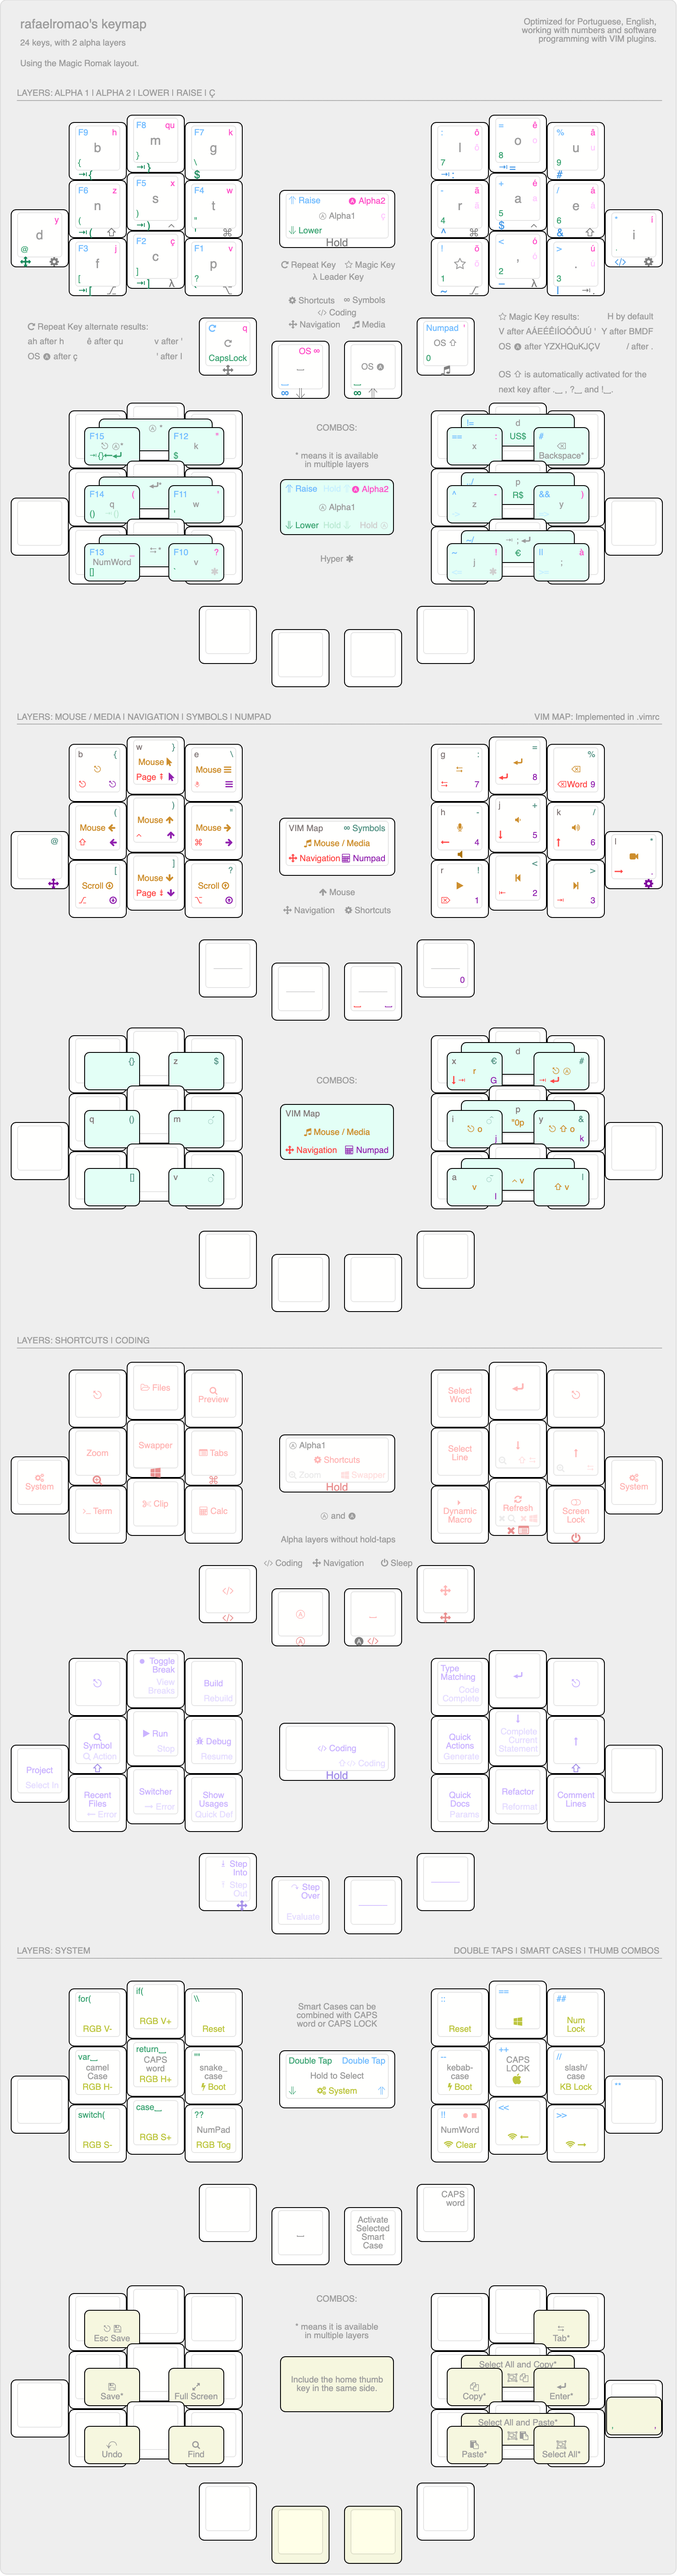
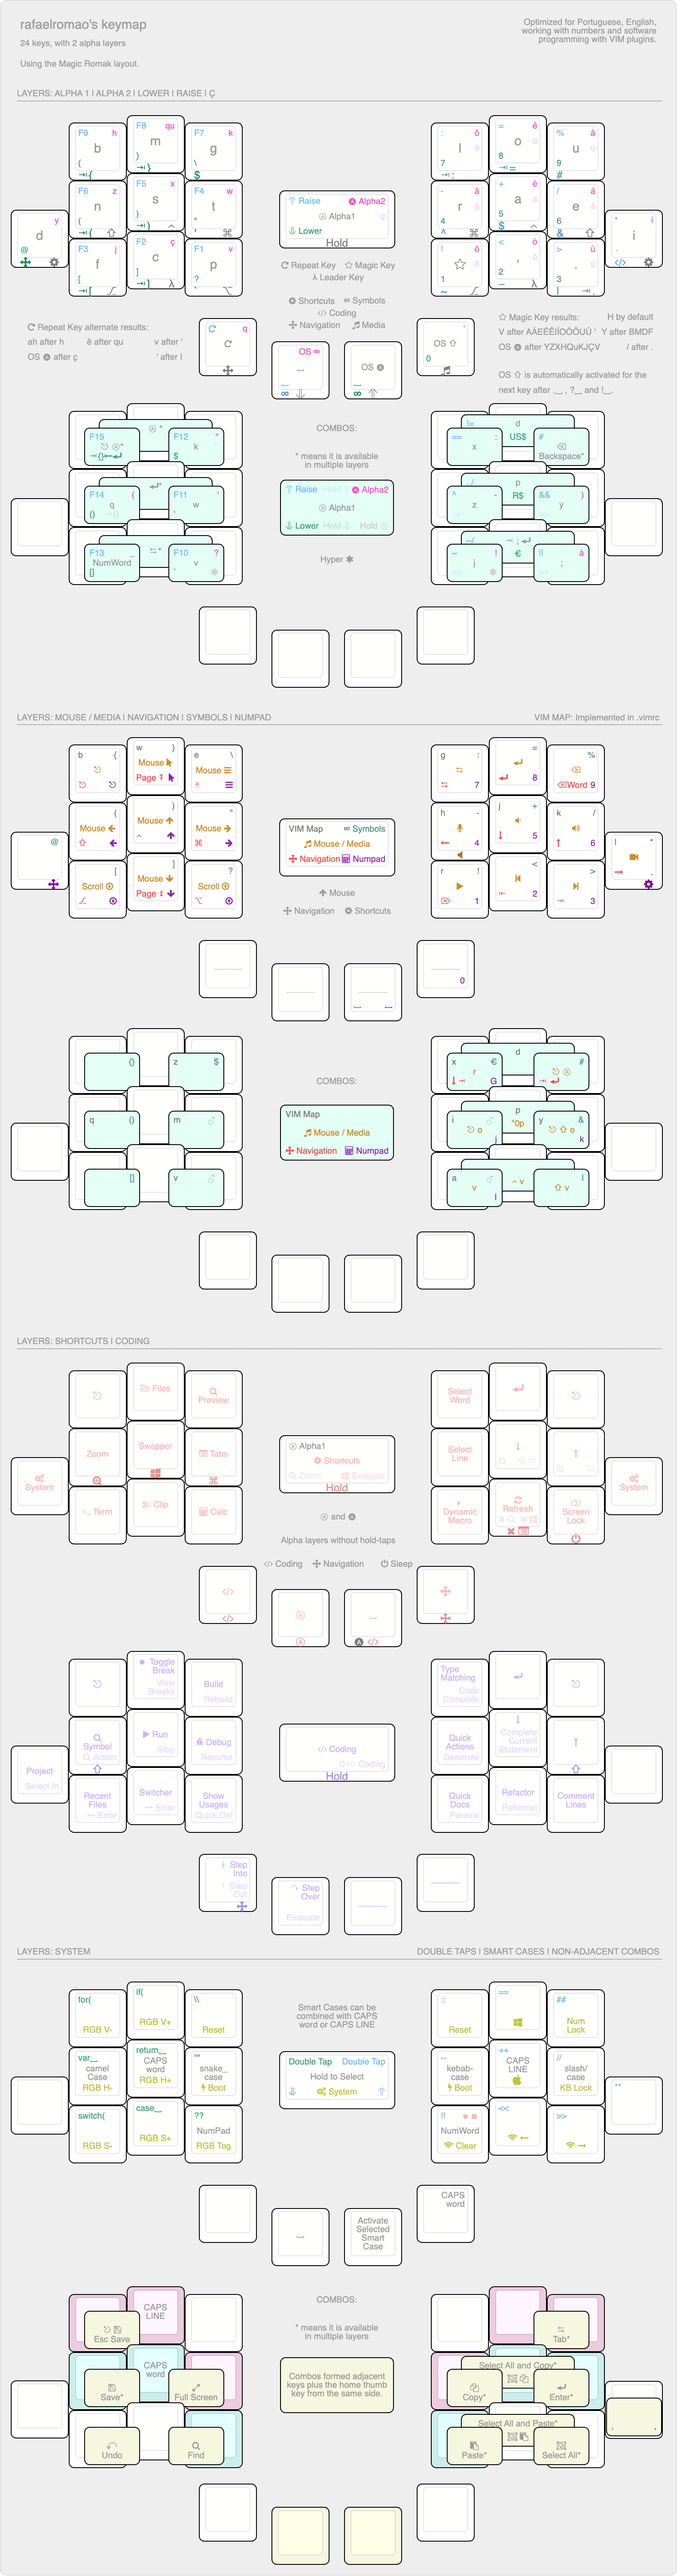
add bilateral combos for capsline and capsword

diff --git a/docs/base.md b/docs/base.md
@@ -33,6 +33,10 @@
 - Holding this key in the base layer will activate the [Navigation](../navigation.md) layer.
 - Tapping or holding this key in the [Raise](../symbols.md) layer acts as a normal Repeat Key, which can be used to spam or to repeat shortcuts. 
 
+### Caps Word / Caps Line
+- Caps Word will captalize a single word and return to normal mode after a word break.
+- Caps Line will be similar to Caps Word, but will not break after a word, but only after a line break.
+
 ### Smart Shift / Caps Word
 - The OS Shift key is available in the right outer thumb key and will toggle the Shift modifier in one-shot mode when single tapped.
 - When double tapped, this key will activate Caps Word.
